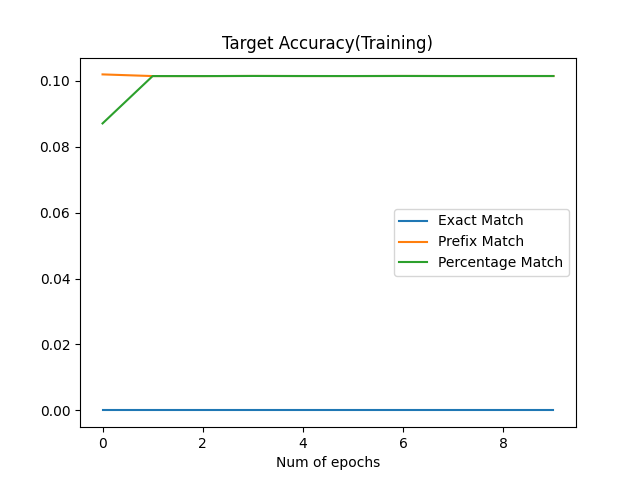
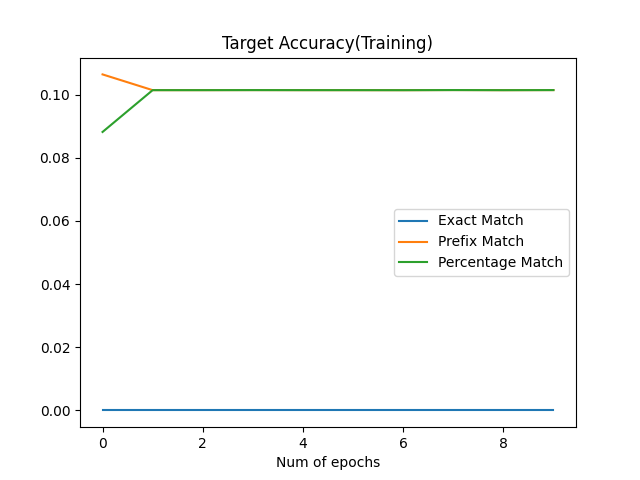
update report

diff --git a/hw3/REPORT.md b/hw3/REPORT.md
@@ -83,11 +83,46 @@ TODO
 #### Loss
 
 ## Performance
+### Evaluation Metrics
+Loss and accuracy of action and target predictions are calculated separately. 3 metrics are used here:
+- Exact Match: given a predicted and a ground truth sequence of target, 2 sequences are matched if and only they are exactly the same.
+- Prefix match: sequences are iterated from the start to the end linearly and stop when the target/action at the current position of each sequence is different.
+- Percentage match: Iterate through all targets/actions (instead of stop early for prefix match), and accuracy = #(matched target/action) / sequence length
+
 ### LSTM Encoder-Decoder Model
-TODO
+![](outputs/experiments/s2s/training_loss.png)
+![](outputs/experiments/s2s/training_action_accuracy.png)
+![](outputs/experiments/s2s/training_target_accuracy.png)
+![](outputs/experiments/s2s/validation_loss.png)
+![](outputs/experiments/s2s/validation_action_accuracy.png)
+![](outputs/experiments/s2s/validation_target_accuracy.png)
+
+|                   |   Loss   | Exact Match Acc | Prefix Match Acc | Percentage Match |
+|:-----------------:|:--------:|:---------------:|:----------------:|:----------------:|
+|  Training Action  |  1.6194  |       0.0       |      0.2028      |      0.2494      |
+|  Training Target  |  3.9120  |       0.0       |      0.1014      |      0.1014      |
+| Validation Action |  1.6242  |       0.0       |      0.2039      |      0.2806      |
+| Validation Target |  3.8865  |       0.0       |      0.1019      |      0.1019      |
+As can be seen from above, the accuracy is quite low, for which I suspect that although instructions are truncated, they may still be a little long for the LSTM to learn and produce good hidden representations.
+Also, pretrained embedding weights are not used, so maybe using pretrained ones to initialize the embedding layers can be helpful as well. 
 
 ### LSTM Encoder-Decoder with Attention
-TODO
+![](outputs/experiments/s2s_with_attention/training_loss.png)
+![](outputs/experiments/s2s_with_attention/training_action_accuracy.png)
+![](outputs/experiments/s2s_with_attention/training_target_accuracy.png)
+![](outputs/experiments/s2s_with_attention/validation_loss.png)
+![](outputs/experiments/s2s_with_attention/validation_action_accuracy.png)
+![](outputs/experiments/s2s_with_attention/validation_target_accuracy.png)
+
+|                   |   Loss   | Exact Match Acc | Prefix Match Acc | Percentage Match |
+|:-----------------:|:--------:|:---------------:|:----------------:|:----------------:|
+|  Training Action  |  1.6194  |       0.0       |      0.2029      |      0.2494      |
+|  Training Target  |  3.9112  |       0.0       |      0.1015      |      0.1015      |
+| Validation Action |  1.6237  |       0.0       |      0.2039      |      0.2806      |
+| Validation Target |  3.8825  |       0.0       |      0.1020      |      0.1020      |
+As can be seen from above, applying the encoder-decoder attention does help the model to decrease the loss to some extent and improve the accuracy to some extent, but the improvement is very insignificant. 
+Again, I guess that the instruction may still be a little bit long for the LSTM layer, especially the one in the encoder, to learn and create good representations for the decoder to attend to. 
+Also, when I was implementing the encoder-decoder attention, I only takes the hidden representations of the last LSTM layer into account while I have 2 LSTM layers stacked together. Maybe attending representations of both layers can also be helpful.  
 
 ### Transformer Based Encoder-Decoder Model
 TODO
